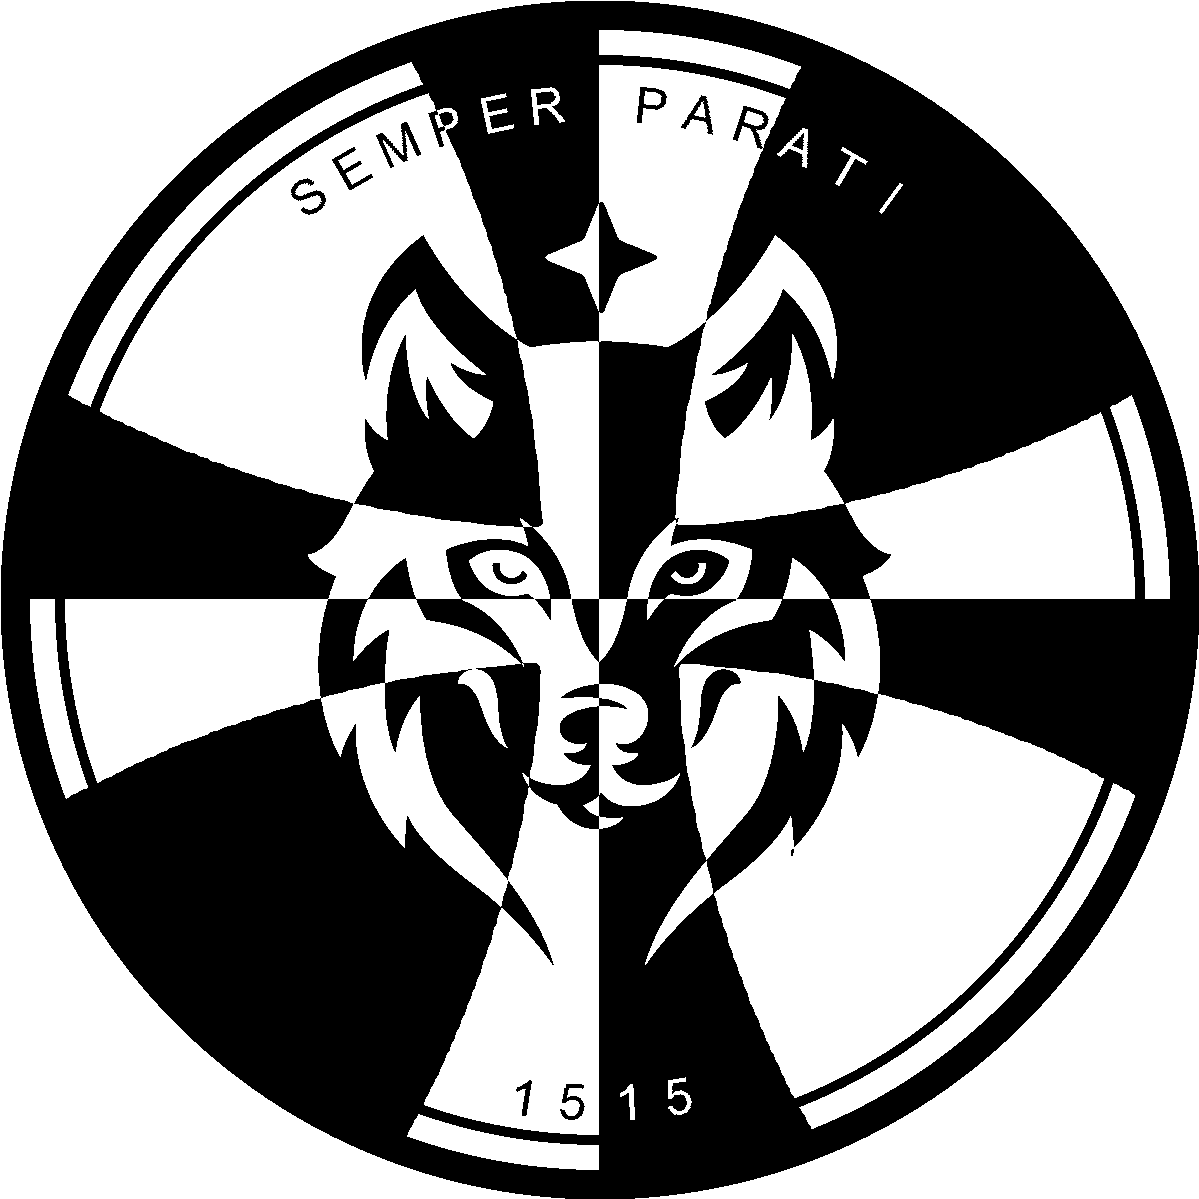
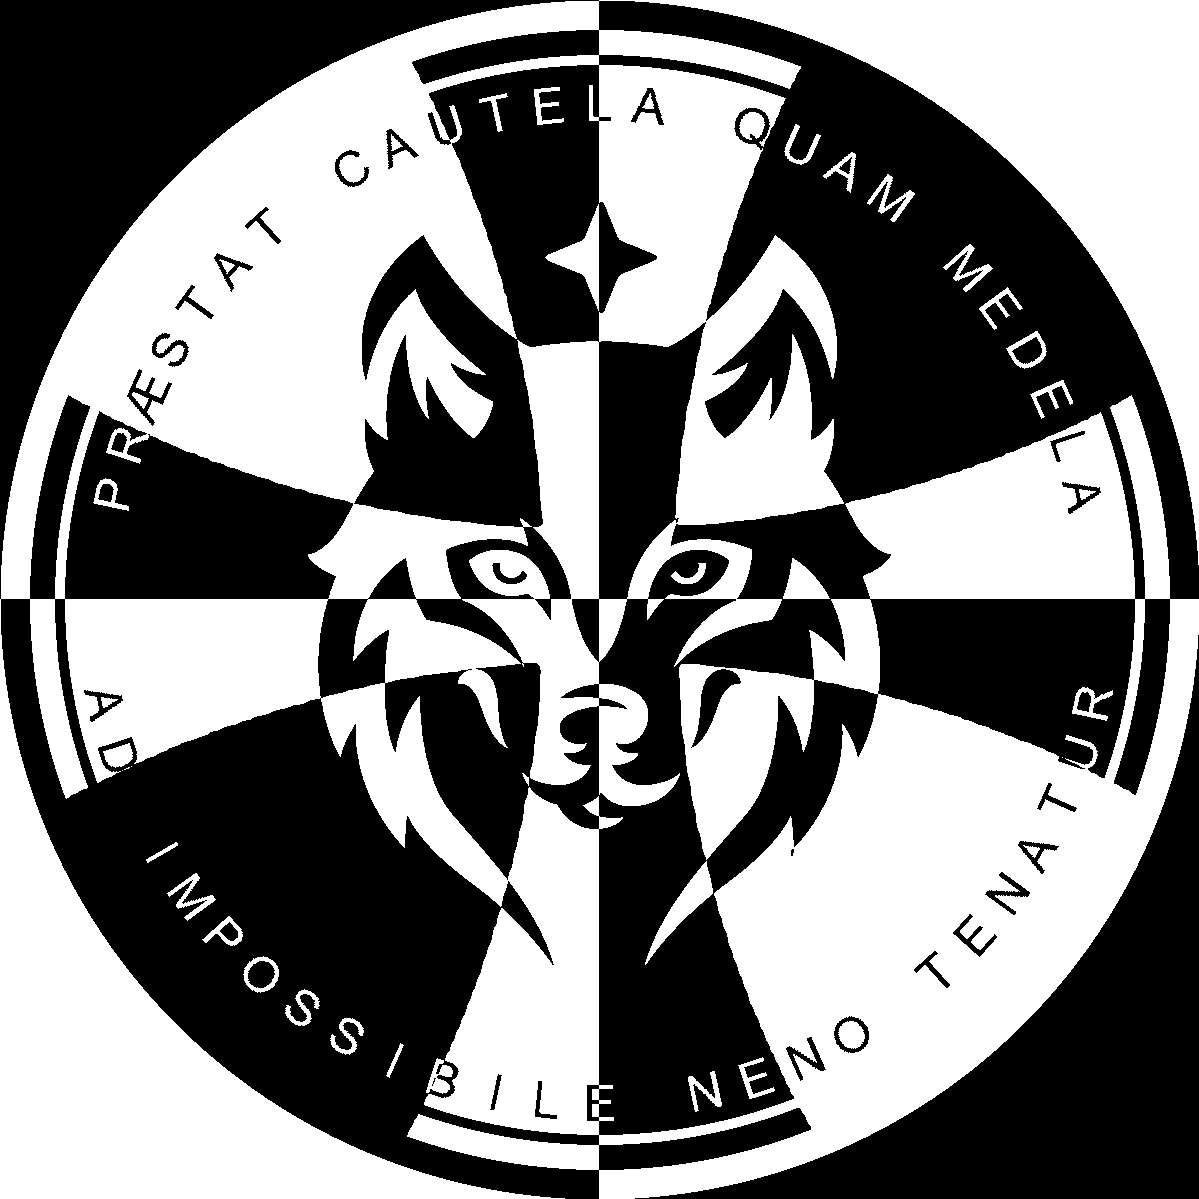
wip

diff --git a/draw_text_on_circle.py b/draw_text_on_circle.py
@@ -42,6 +42,6 @@ def draw_text(s, module, arg, angle_step):
 def draw_text_centered(s, module, angle_step):
     total_angle = (len(s)-1) * angle_step
     draw_text(s, module, 90+total_angle/2 if angle_step>0 else total_angle/2 -90, angle_step)
-draw_text_centered( "SEMPER PARATI", 500,6)
-draw_text_centered( "1515", 500,-6)
+draw_text_centered( "Præstat cautela quam medela".upper(), 500,6)
+draw_text_centered( "Ad impossibile neno tenatur".upper(), 500,-6)
 im.save(sys.argv[1])  # Save the modified pixels as .png

diff --git a/black_white.py b/black_white.py
@@ -4,8 +4,6 @@ from PIL import Image
 
 im = Image.open(sys.argv[1]) # Can be many different formats.
 pix = im.load()
-print(im.size)  # Get the width and hight of the image for iterating over
-print(pix[0,0])  # Get the RGBA Value of the a pixel of an image
 for x in range(0,im.size[0]):
     for y in range(0,im.size[1]):
         col = pix[x,y]
